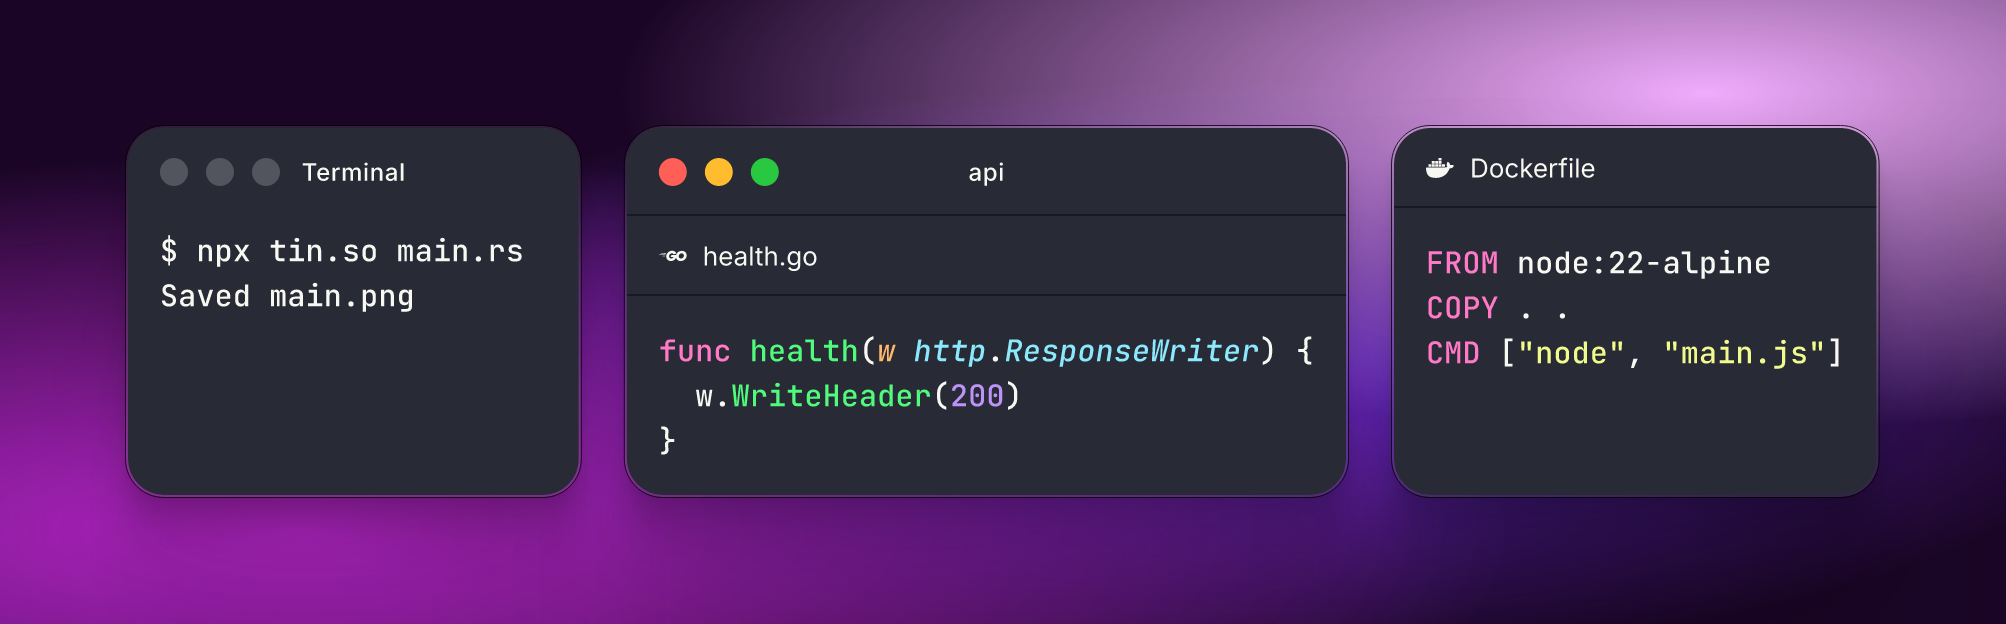
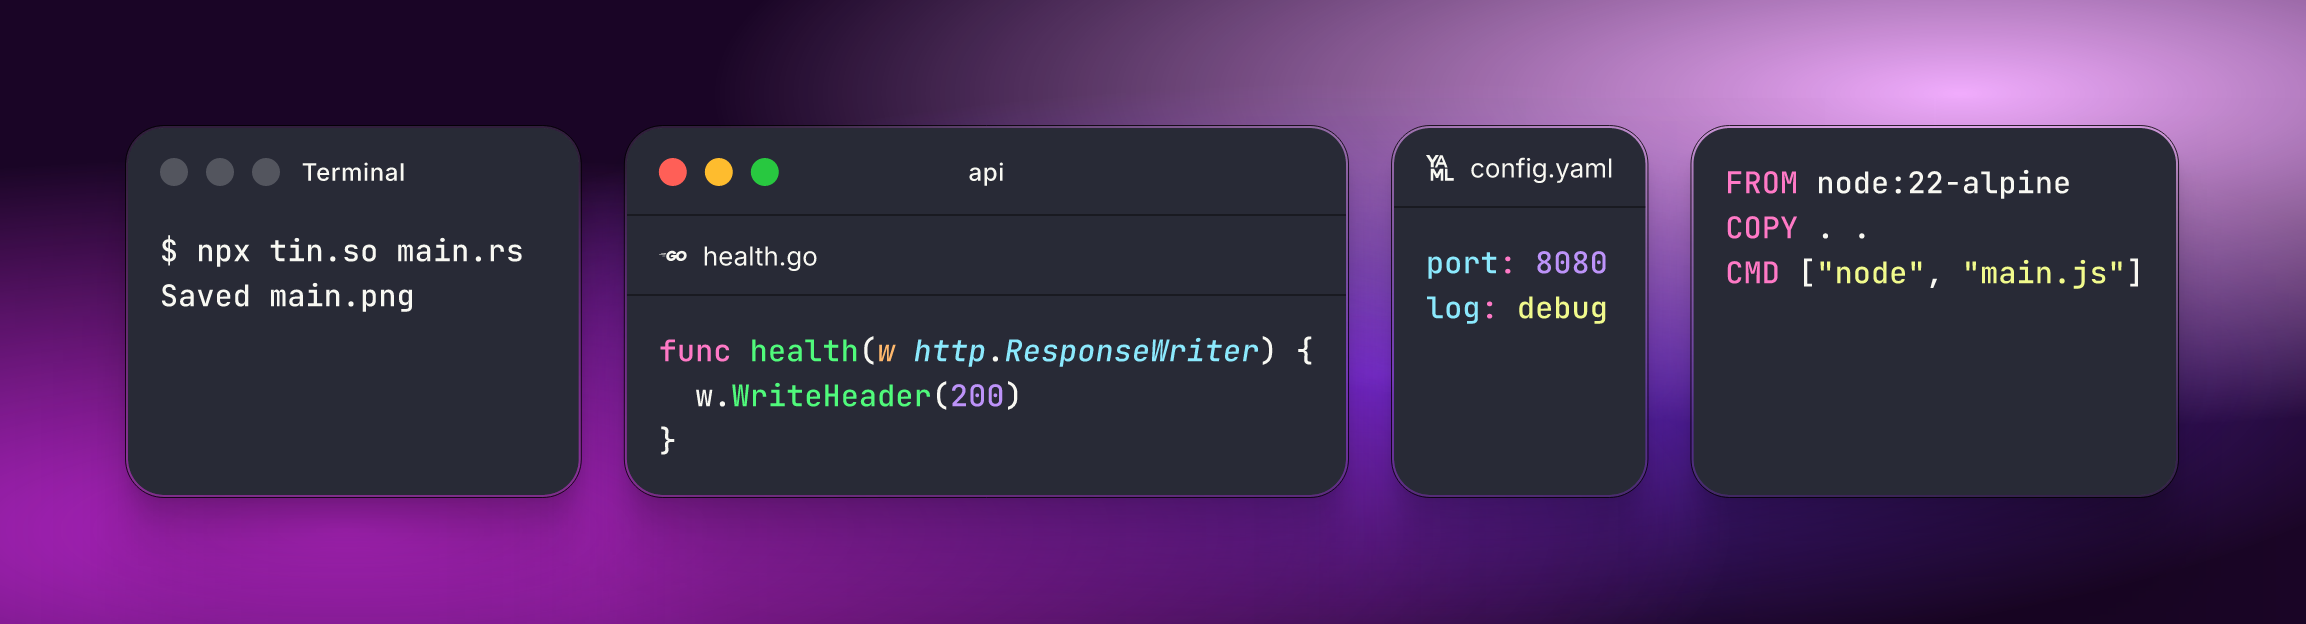
docs: show a window without a title bar in the windows example

Changed region(s): [[0.0309, 0.1827, 0.9581, 0.8221], [0.4636, 0.274, 0.4945, 0.3045], [0.0618, 0.7612, 0.0927, 0.7917]]

diff --git a/apps/web/scripts/generate-readme-images.ts b/apps/web/scripts/generate-readme-images.ts
@@ -162,7 +162,7 @@ const SPECS: Record<string, object> = {
       },
     ],
   },
-  // Three window styles side by side: a title bar, a title bar with tabs, and tabs only
+  // Four window styles side by side: a title bar, a title bar with tabs, only tabs, and no title bar
   windows: {
     theme: "dracula",
     direction: "row",
@@ -184,6 +184,10 @@ const SPECS: Record<string, object> = {
       },
       {
         tabs: true,
+        titleBar: false,
+        panes: [{ title: "config.yaml", code: `port: 8080\nlog: debug` }],
+      },
+      {
         titleBar: false,
         panes: [
           { title: "Dockerfile", code: `FROM node:22-alpine\nCOPY . .\nCMD ["node", "main.js"]` },

diff --git a/README.md b/README.md
@@ -116,7 +116,7 @@ Show the reader where to look. Highlight full lines, or give any part of a line 
 ### Windows
 
 <p align="center">
-  <img alt="Three windows side by side in the Dracula theme: a terminal with gray controls, a window with color controls and a tab, and a window with only a tab" src="docs/images/windows.png" width="860">
+  <img alt="Four windows side by side in the Dracula theme: a terminal with gray controls, a window with color controls and a tab, a window with only a tab, and a window without a title bar" src="docs/images/windows.png" width="860">
 </p>
 
 - A title bar with a title, or no title bar.
